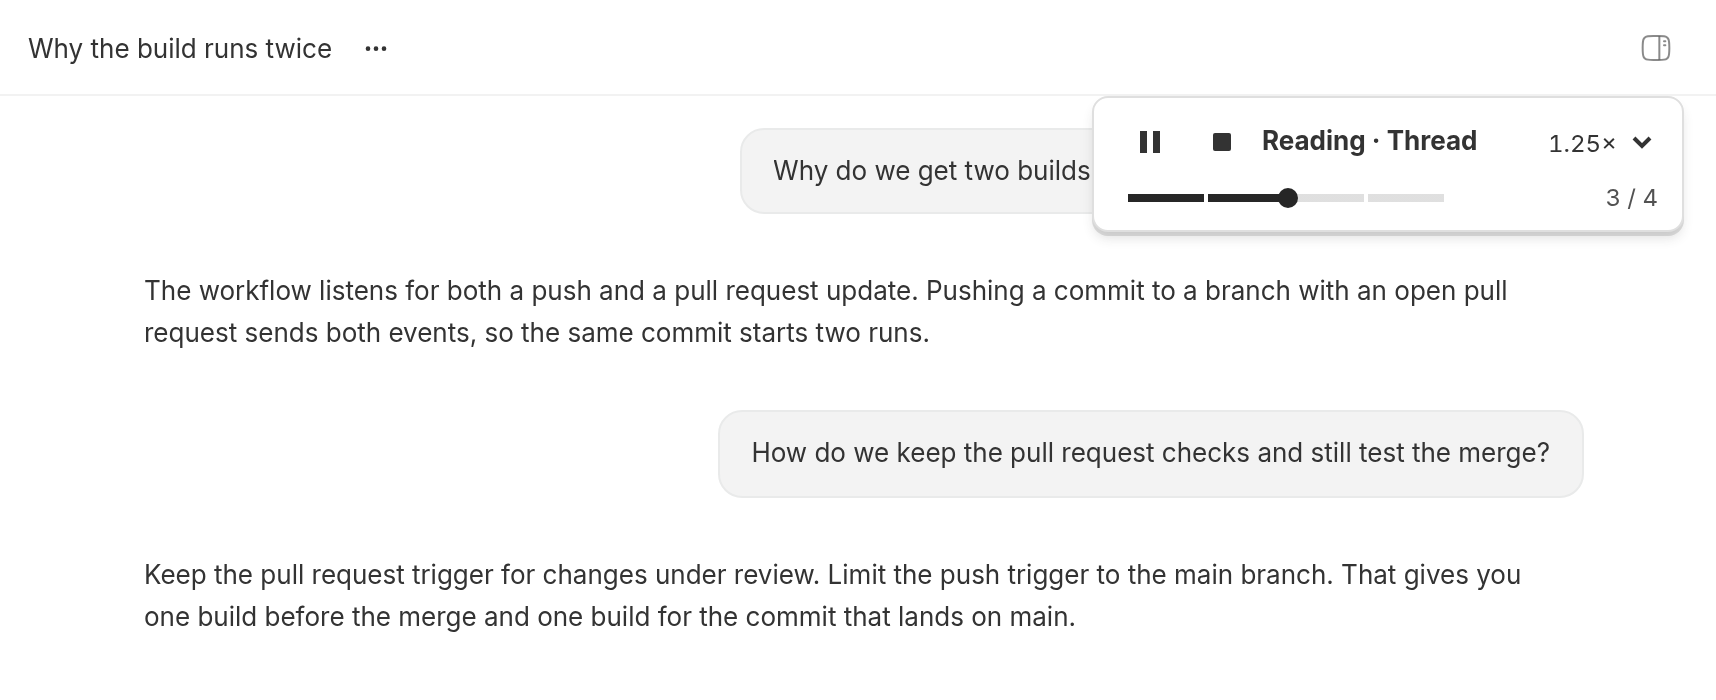
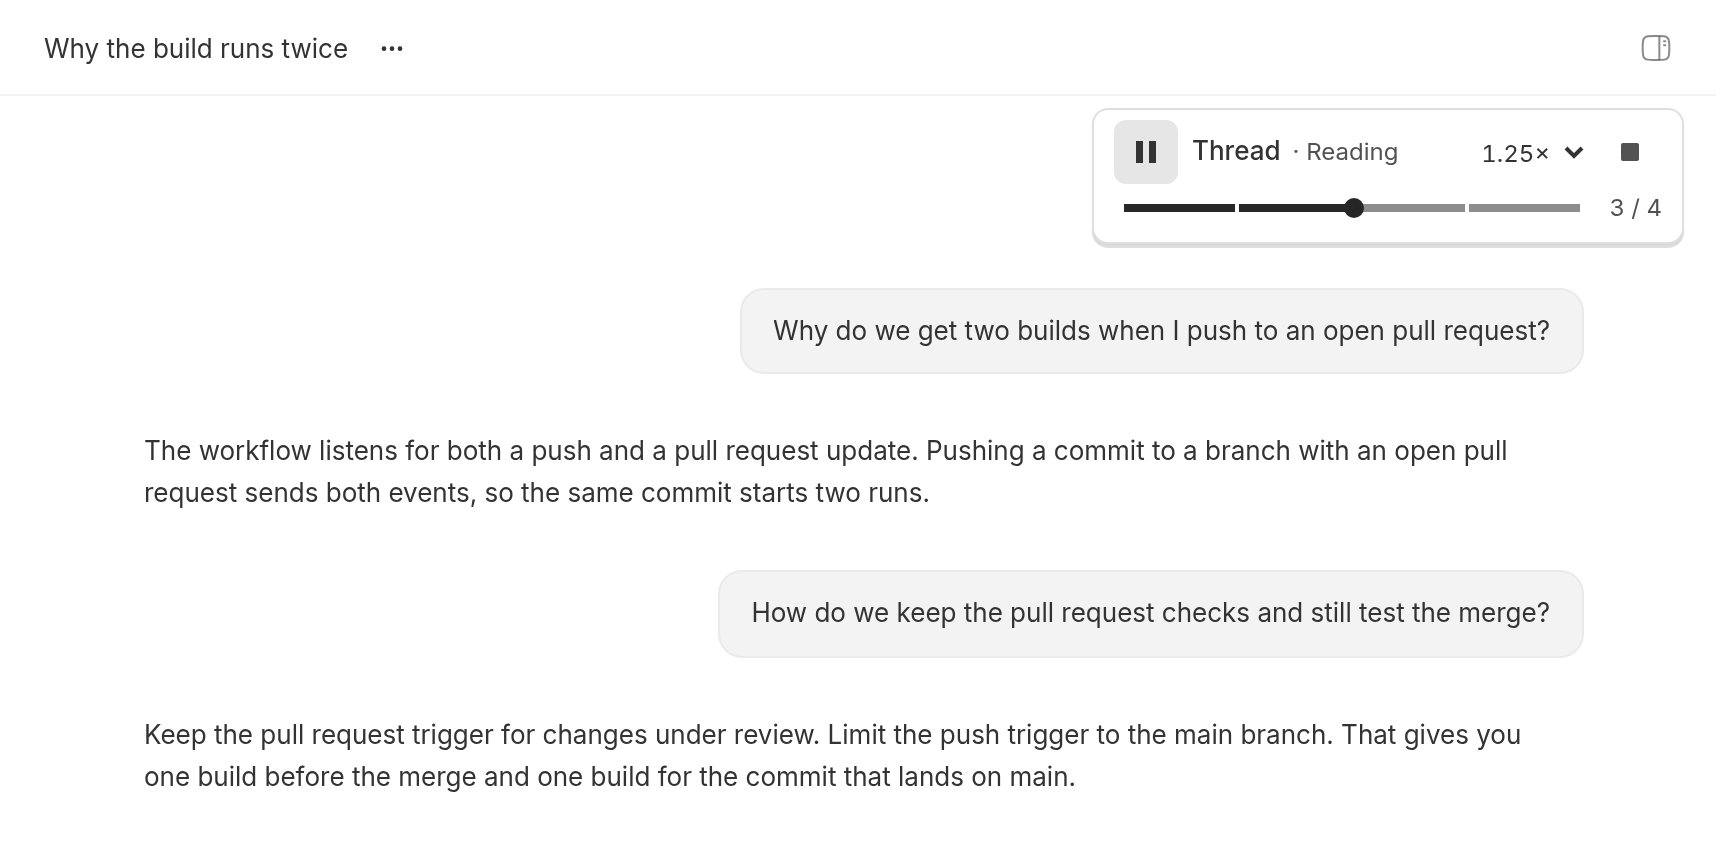
Release the redesigned Thread Reader player in 0.1.2

diff --git a/app.tsx b/app.tsx
@@ -1,6 +1,6 @@
 import "./player.css";
 import { useEffect, useRef, useState, useSyncExternalStore } from "react";
-import { definePluginApp, useSettings, type useSdk } from "@get-bb/plugin-sdk/app";
+import { definePluginApp, useBbContext, useSettings, type useSdk } from "@get-bb/plugin-sdk/app";
 import {
   holdForSeek,
   playbackSpeed,
@@ -76,8 +76,17 @@ function Timeline({ player }: { player: Transport }) {
   const time = player.duration ? `${elapsed} / ${clock(player.duration)}` : percent;
   const valueText = single ? time : `${passage}, ${percent}`;
 
+  let widestReadout = `${player.count} / ${player.count}`;
+
+  if (single && player.duration) {
+    const total = clock(player.duration);
+    widestReadout = `${total} / ${total}`;
+  } else if (player.count < 2) {
+    widestReadout = "100%";
+  }
+
   const fill = `${player.count ? (position / player.count) * 100 : 0}%`;
-  const track = `linear-gradient(to right, var(--primary) ${fill}, var(--border) ${fill})`;
+  const track = `linear-gradient(to right, var(--primary) ${fill}, var(--thread-reader-remaining) ${fill})`;
   const section = `${100 / (player.count || 1)}%`;
   const marks = `repeating-linear-gradient(to right, transparent 0 calc(${section} - 2px), var(--popover) calc(${section} - 2px) ${section})`;
 
@@ -88,7 +97,7 @@ function Timeline({ player }: { player: Transport }) {
   }
 
   return (
-    <div className="mt-0.5 grid grid-cols-[minmax(0,1fr)_minmax(5.75rem,max-content)] items-center gap-2 text-[12px] tabular-nums">
+    <div className="grid grid-cols-[minmax(0,1fr)_auto] items-center gap-2 text-[12px] tabular-nums">
       <input
         type="range"
         aria-label="Narration timeline"
@@ -98,6 +107,7 @@ function Timeline({ player }: { player: Transport }) {
         step={0.01}
         value={position}
         disabled={!player.count}
+        title={player.count ? valueText : undefined}
         className="thread-reader-timeline"
         style={{ backgroundImage: player.count > 1 && player.count <= 12 ? `${marks}, ${track}` : track }}
         onKeyDown={(event) => {
@@ -154,18 +164,22 @@ function Timeline({ player }: { player: Transport }) {
           }
         }}
       />
-      {player.count > 0 && (
-        <span className="whitespace-nowrap text-right text-muted-foreground" title={single ? undefined : passage}>
-          {single ? time : `${index + 1} / ${player.count}`}
+      <span
+        className="grid whitespace-nowrap text-right text-muted-foreground"
+        title={player.count > 1 ? passage : undefined}
+      >
+        <span aria-hidden="true" className="invisible col-start-1 row-start-1">
+          {widestReadout}
         </span>
-      )}
+        {player.count > 0 && (
+          <span className="col-start-1 row-start-1">{single ? time : `${index + 1} / ${player.count}`}</span>
+        )}
+      </span>
     </div>
   );
 }
 
-function Player() {
-  const player = useSyncExternalStore(subscribe, snapshot);
-  const speed = useSyncExternalStore(subscribe, playbackSpeed);
+function Overlay() {
   const closeWhenFinished = useSettings().values?.closeWhenFinished === true;
 
   useEffect(() => {
@@ -181,13 +195,24 @@ function Player() {
     };
   }, []);
 
+  return <Player floating />;
+}
+
+function ThreadPlayer({ threadId }: { threadId: string }) {
+  const active = useBbContext();
+
+  return active.threadId === threadId ? <Player /> : null;
+}
+
+function Player({ floating = false }: { floating?: boolean }) {
+  const player = useSyncExternalStore(subscribe, snapshot);
+  const speed = useSyncExternalStore(subscribe, playbackSpeed);
+
   if (!player || player.label === previewLabel) {
     return null;
   }
 
-  const panel =
-    "fixed top-12 right-4 z-50 box-border max-w-[calc(100vw-2rem)] rounded-lg border border-border bg-popover px-3 py-1.5 text-popover-foreground shadow-lg";
-  const button = "inline-flex size-8 shrink-0 cursor-pointer items-center justify-center rounded-md hover:bg-accent";
+  const panel = floating ? "thread-reader-panel thread-reader-floating" : "thread-reader-panel thread-reader-docked";
 
   if (player.status === "Error") {
     return (
@@ -197,7 +222,11 @@ function Player() {
             <strong>Couldn’t read aloud</strong>
             <div className="text-xs">{player.detail}</div>
           </div>
-          <button type="button" onClick={stop} className="rounded-md border border-border px-2 py-1 hover:bg-accent">
+          <button
+            type="button"
+            onClick={stop}
+            className="thread-reader-control rounded-md border border-border px-2 py-1 hover:bg-accent"
+          >
             Dismiss
           </button>
         </div>
@@ -205,30 +234,59 @@ function Player() {
     );
   }
 
-  const action = player.paused ? "Play" : "Pause";
+  const finished = player.status === "Finished";
+  const loading = player.status === "Loading";
+  let action = player.paused ? "Play" : "Pause";
+
+  if (finished) {
+    action = "Replay";
+  }
 
   return (
-    <aside aria-label="Thread Reader" className={panel + " w-[18.5rem]"}>
+    <aside aria-label="Thread Reader" className={panel}>
       <div className="flex items-center gap-1">
-        <button type="button" aria-label={action} title={action} onClick={togglePlayback} className={button}>
+        <button
+          type="button"
+          aria-label={action}
+          title={action}
+          onClick={togglePlayback}
+          className="thread-reader-control thread-reader-primary"
+        >
           <svg aria-hidden="true" width="16" height="16" viewBox="0 0 16 16" fill="currentColor">
-            <path d={player.paused ? "M4 2.5v11l9-5.5z" : "M3 2.5h3.5v11H3zM9.5 2.5H13v11H9.5z"} />
+            {finished ? (
+              <path
+                d="M3.5 5.5a5 5 0 1 1-.4 4.3M3.5 2v3.8h3.8"
+                fill="none"
+                stroke="currentColor"
+                strokeWidth="1.6"
+                strokeLinecap="round"
+                strokeLinejoin="round"
+              />
+            ) : (
+              <path d={player.paused ? "M4 2.5v11l9-5.5z" : "M3 2.5h3.5v11H3zM9.5 2.5H13v11H9.5z"} />
+            )}
           </svg>
         </button>
-        <button type="button" aria-label="Stop" title="Stop" onClick={stop} className={button}>
-          <svg aria-hidden="true" width="16" height="16" viewBox="0 0 16 16" fill="currentColor">
-            <rect x="3.5" y="3.5" width="9" height="9" rx="1" />
-          </svg>
-        </button>
-        <strong role="status" className="min-w-0 flex-1 truncate text-[13px]">
-          {player.status} · {player.label}
-        </strong>
+        <span role="status" className="flex min-w-0 flex-1 items-center gap-1.5 truncate text-[13px]">
+          <span className="font-medium">{player.label}</span>
+          {loading ? (
+            <>
+              <span className="thread-reader-spinner" aria-hidden="true" />
+              <span className="sr-only">Loading</span>
+            </>
+          ) : (
+            <span className="truncate text-[12px] text-muted-foreground">
+              <span aria-hidden="true">· </span>
+              {player.status}
+            </span>
+          )}
+        </span>
         <select
           aria-label="Playback speed"
           title="Playback speed"
           value={speed}
           onChange={(event) => setPlaybackSpeed(Number(event.target.value))}
-          className="h-8 shrink-0 cursor-pointer rounded-md bg-popover px-1 text-[12px] tabular-nums hover:bg-accent"
+          className="thread-reader-control thread-reader-speed h-8 rounded-md bg-popover px-1 text-[12px] tabular-nums hover:bg-accent"
         >
           {speeds.map((value) => (
             <option key={value} value={value}>
@@ -236,6 +294,17 @@ function Player() {
             </option>
           ))}
         </select>
+        <button
+          type="button"
+          aria-label="Stop"
+          title="Stop and close"
+          onClick={stop}
+          className="thread-reader-control thread-reader-stop"
+        >
+          <svg aria-hidden="true" width="16" height="16" viewBox="0 0 16 16" fill="currentColor">
+            <rect x="3.5" y="3.5" width="9" height="9" rx="1" />
+          </svg>
+        </button>
       </div>
       <Timeline player={player} />
     </aside>
@@ -282,5 +351,6 @@ export default definePluginApp((app) => {
     }),
   });
 
-  app.slots.experimental_appOverlay({ id: "reader", component: Player });
+  app.slots.experimental_threadHeaderRow({ id: "reader", component: ThreadPlayer });
+  app.slots.experimental_appOverlay({ id: "reader", component: Overlay });
 });

diff --git a/player.css b/player.css
@@ -1,7 +1,100 @@
+.thread-reader-panel {
+  box-sizing: border-box;
+  width: 18.5rem;
+  max-width: calc(100% - 1.5rem);
+  margin: 6px 16px 6px auto;
+  padding: 5px 10px;
+  color: var(--popover-foreground);
+  background: var(--popover);
+  border: 1px solid var(--border);
+  border-radius: var(--radius);
+  box-shadow: var(--shadow-sm);
+}
+
+body:has(.thread-reader-docked:not([inert] *)) .thread-reader-floating,
+[inert] .thread-reader-docked {
+  display: none;
+}
+
+.thread-reader-floating {
+  position: fixed;
+  z-index: 50;
+  top: 3.5rem;
+  right: 1rem;
+  margin: 0;
+}
+
+.thread-reader-control {
+  flex-shrink: 0;
+  cursor: pointer;
+}
+
+.thread-reader-primary,
+.thread-reader-stop {
+  display: inline-grid;
+  place-items: center;
+  width: 32px;
+  height: 32px;
+  border-radius: 6px;
+}
+
+.thread-reader-primary {
+  margin-right: 3px;
+  color: var(--foreground);
+  background: var(--muted);
+}
+
+.thread-reader-stop {
+  color: var(--muted-foreground);
+}
+
+.thread-reader-primary:hover {
+  background: color-mix(in srgb, var(--foreground) 20%, var(--muted));
+}
+
+.thread-reader-speed {
+  text-align: right;
+  field-sizing: content;
+}
+
+.thread-reader-stop:hover {
+  background: var(--accent);
+  color: var(--accent-foreground);
+}
+
+.thread-reader-control:focus-visible {
+  outline: 2px solid var(--ring);
+  outline-offset: 1px;
+}
+
+.thread-reader-spinner {
+  width: 12px;
+  height: 12px;
+  flex: none;
+  border: 1.5px solid var(--border);
+  border-top-color: var(--muted-foreground);
+  border-right-color: var(--muted-foreground);
+  border-radius: 50%;
+}
+
+@media (prefers-reduced-motion: no-preference) {
+  .thread-reader-spinner {
+    animation: thread-reader-spin 0.85s linear infinite;
+  }
+}
+
+@keyframes thread-reader-spin {
+  to {
+    transform: rotate(1turn);
+  }
+}
+
 .thread-reader-timeline {
+  --thread-reader-remaining: color-mix(in srgb, var(--popover-foreground) 56%, var(--popover));
   appearance: none;
   width: 100%;
-  height: 20px;
+  height: 24px;
+  border-radius: 5px;
   min-width: 0;
   margin: 0;
   padding: 0;
@@ -34,10 +127,34 @@
   background: var(--primary);
 }
 
+.thread-reader-timeline:focus-visible {
+  outline: none;
+}
+
+.thread-reader-timeline:focus-visible::-webkit-slider-thumb {
+  outline: 2px solid var(--ring);
+  outline-offset: 2px;
+}
+
+.thread-reader-timeline:focus-visible::-moz-range-thumb {
+  outline: 2px solid var(--ring);
+  outline-offset: 2px;
+}
+
 @media (forced-colors: active) {
+  .thread-reader-spinner {
+    forced-color-adjust: none;
+    border-color: Canvas;
+    border-top-color: CanvasText;
+    border-right-color: CanvasText;
+  }
+
   .thread-reader-timeline {
     appearance: auto;
     accent-color: auto;
+  }
+  .thread-reader-timeline:focus-visible {
+    outline: 2px solid Highlight;
   }
   .thread-reader-timeline::-webkit-slider-thumb {
     appearance: auto;
@@ -78,4 +195,15 @@
 
 .thread-reader-preview-feedback:empty {
   display: none;
+}
+
+@container settings (min-width: 36rem) {
+  [data-settings-anchor="Voice"] div:has(> .thread-reader-preview-button) {
+    width: 16rem;
+  }
+
+  [data-settings-anchor="Voice"] input:has(+ .thread-reader-preview-button) {
+    min-width: 0;
+    width: 100%;
+  }
 }

diff --git a/voice-preview.ts b/voice-preview.ts
@@ -15,7 +15,7 @@ export function mountVoicePreview() {
   icon.setAttribute("aria-hidden", "true");
   icon.setAttribute("fill", "none");
   icon.setAttribute("stroke", "currentColor");
-  icon.setAttribute("stroke-width", "1.8");
+  icon.setAttribute("stroke-width", "1.5");
   icon.setAttribute("stroke-linecap", "round");
   icon.setAttribute("stroke-linejoin", "round");
   const path = document.createElementNS("http://www.w3.org/2000/svg", "path");
@@ -38,10 +38,8 @@ export function mountVoicePreview() {
     button.title = label;
     button.setAttribute("aria-label", label);
     button.disabled = !voice;
-    path.setAttribute(
-      "d",
-      playing ? "M6 6h12v12H6z" : "M11 5 5 9H2v6h3l6 4z M15 8a6 6 0 0 1 0 8 M18 5a10 10 0 0 1 0 14",
-    );
+    path.setAttribute("fill", playing ? "currentColor" : "none");
+    path.setAttribute("d", playing ? "M6 6h12v12H6z" : "M3 9h4l5-4v14l-5-4H3zM16 9a5 5 0 0 1 0 6M19 6a9 9 0 0 1 0 12");
     const message = preview?.status === "Error" ? preview.detail : "";
 
     if (feedback.textContent !== message) {

diff --git a/README.md b/README.md
@@ -9,7 +9,7 @@ Listen to a BB thread, a single message, or text you select. The player lets you
 You need BB 0.50 or later and an OpenAI API key with Realtime access.
 
 ```sh
-bb plugin install git:https://github.com/vorsakha/bb-plugin-thread-reader.git@v0.1.1
+bb plugin install git:https://github.com/vorsakha/bb-plugin-thread-reader.git@v0.1.2
 ```
 
 Open **Settings → Installed plugins → Thread Reader** and enter your API key. Click the speaker beside **Voice** to hear a sample. The defaults are `gpt-realtime-2.1-mini` and the `marin` voice. To change the delivery, edit **Narration style** and preview it again.
